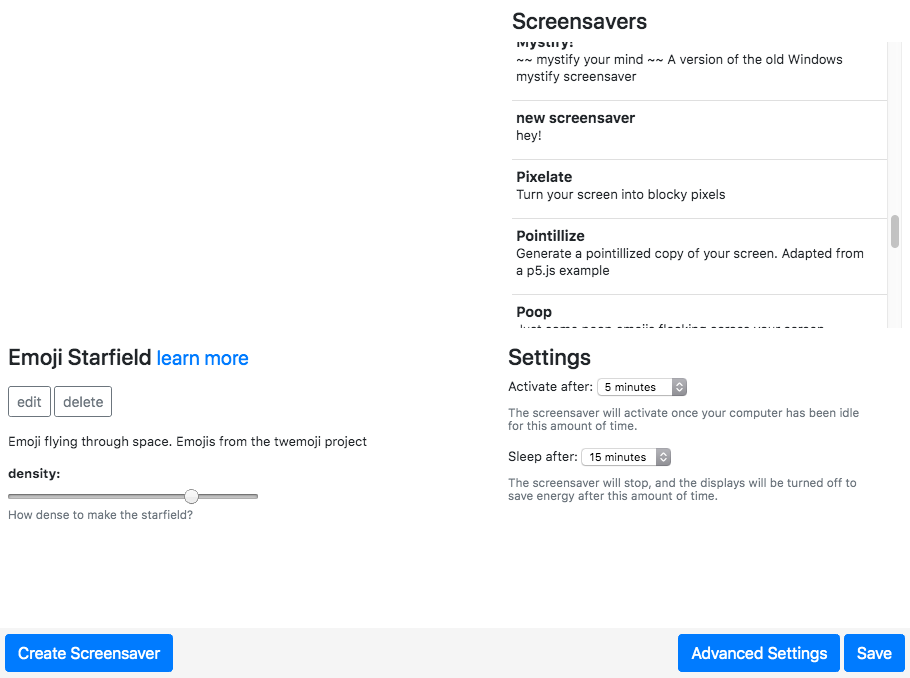
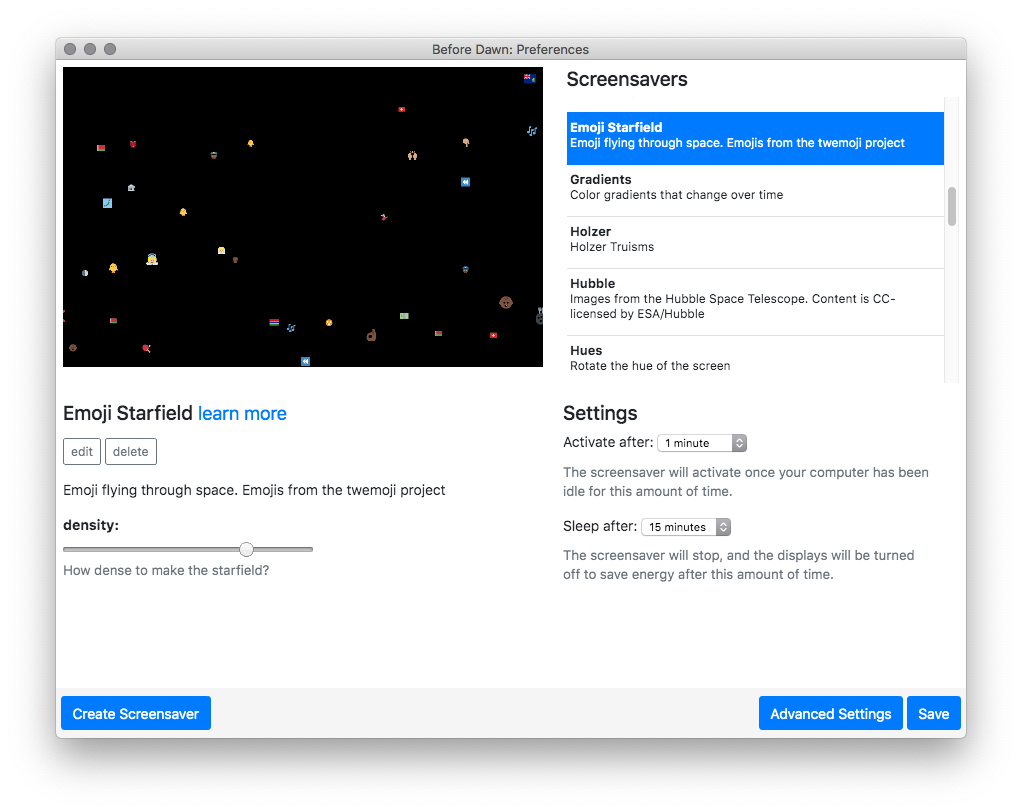
Update screenshots
The screenshot script isn't including the saver previews since I guess
they are in a different window now. What a drag.

diff --git a/bin/capture-screens.js b/bin/capture-screens.js
@@ -4,7 +4,7 @@
 
 const path = require("path");
 const fs = require("fs-extra");
-const fsPromises = require('fs').promises;
+const fsPromises = require("fs").promises;
 
 const Application = require("spectron").Application;
 const appPath = require("electron");
@@ -22,7 +22,7 @@ let app = new Application({
   env: env
 });
 
-const SCREENSAVER = 'Emoji Starfield';
+const SCREENSAVER = "Emoji Starfield";
 app.start().
   then(() => app.client.waitUntilWindowLoaded() ).
   then(() => app.electron.ipcRenderer.send("open-prefs")).

diff --git a/README.md b/README.md
@@ -35,15 +35,10 @@ can preview and pick screensavers there:
 
 ![preferences window](assets/prefs.png "Preferences Window")
 
-There's a 'Settings' section where you can specify certain options for how the
+There's an 'Advanced Settings' section where you can specify certain options for how the
 application should run.
 
-![preferences window](assets/prefs-settings.png "Preferences Settings")
-
-Finally, there's a section for advanced settings. You can use this area to add a
-local directory for storing your own screensavers.
-
-![preferences window](assets/prefs-advanced.png "Preferences Advanced Options")
+![settings window](assets/settings.png "Preferences Settings")
 
 
 ## Downloads
@@ -104,18 +99,12 @@ There's also a very basic editor mode built into Before Dawn, which will
 generate some basic code for you to work from, and will make it easier to add
 some configurable options to your work.
 
-The editor has a preview section:
+The editor has a simple preview, a form to describe the screensaver, and a
+section where you can add custom options for your screensaver:
 
 ![editor window](assets/editor.png "Editor Window")
 
-And a section to describe the screensaver:
-
-![editor window](assets/editor-description.png "Editor Description Window")
-
-
-And also a section where you can add custom options for your screensaver:
-
-![editor window](assets/editor-options.png "Editor Options Window")
+![editor window](assets/editor-2.png "Editor Window")
 
 
 ## Contributing
